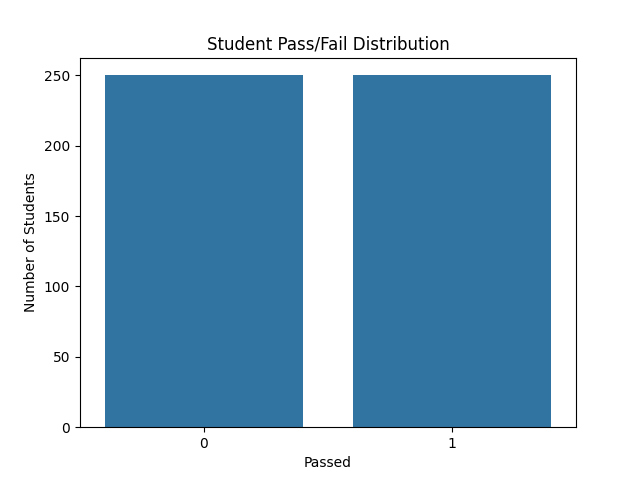
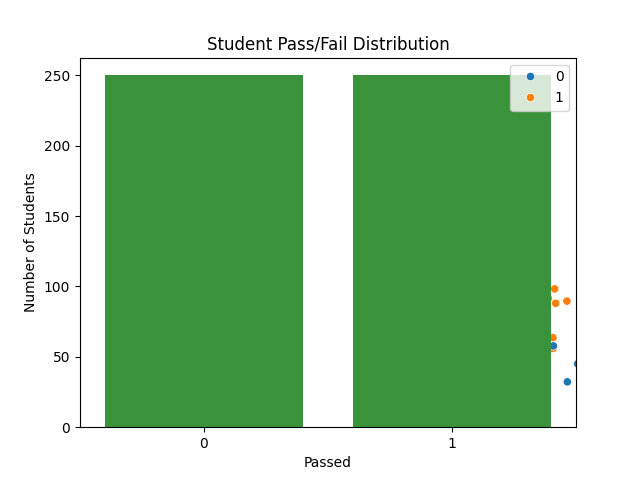
adding a new comit

diff --git a/SPR.py b/SPR.py
@@ -4,13 +4,16 @@ import numpy as np
 import streamlit as st
 import matplotlib.pyplot as plt
 import seaborn as sns
-from sklearn.model_selection import train_test_split, GridSearchCV
-from sklearn.preprocessing import LabelEncoder
+
+from sklearn.model_selection import train_test_split
 from sklearn.tree import DecisionTreeClassifier, plot_tree
 from sklearn.metrics import (
-    accuracy_score, classification_report, confusion_matrix,
+    accuracy_score,
+    classification_report,
+    confusion_matrix,
     ConfusionMatrixDisplay
 )
+
 
 np.random.seed(42)
 
@@ -36,39 +39,69 @@ threshold = np.median(performance_score)
 
 passed = (performance_score >= threshold).astype(int)
 
+
 df = pd.DataFrame({
     "StudyHours": study_hours,
     "Attendance": attendance,
     "PreviousScore": previous_score,
     "SleepHours": sleep_hours,
-    "AssignmentsCompleted": assignments,
+    "Assignments": assignments,
     "Extracurricular": extracurricular,
     "Passed": passed
 })
 
-sns.countplot(
-    x="Passed",
-    data=df
+st.title("Student Performance Prediction")
+
+st.subheader("Dataset")
+
+st.dataframe(df.head(10))
+
+
+st.subheader("Dataset Statistics")
+
+st.write(df.describe())
+
+
+st.subheader("Correlation Heatmap")
+
+fig, ax = plt.subplots(figsize=(10, 6))
+
+sns.heatmap(
+    df.corr(),
+    annot=True,
+    cmap="coolwarm",
+    fmt=".2f",
+    ax=ax
 )
 
-plt.title("Student Pass/Fail Distribution")
-plt.xlabel("Passed")
-plt.ylabel("Number of Students")
-plt.savefig("student_pass_fail.png")
+ax.set_title("Correlation Heatmap")
+
+st.pyplot(fig)
+
+plt.close(fig)
+
+
+st.subheader("Study Hours vs Previous Score")
+
+fig, ax = plt.subplots(figsize=(8, 5))
 
 sns.scatterplot(
+    data=df,
     x="StudyHours",
     y="PreviousScore",
     hue="Passed",
-    data=df
+    ax=ax
 )
 
-plt.title("Study Hours vs Previous Score")
-plt.savefig("study_hours_vs_previous_score.png")
+ax.set_title("Study Hours vs Previous Score")
+
+st.pyplot(fig)
+
+plt.close(fig)
 
 X = df.drop("Passed", axis=1)
-
 y = df["Passed"]
+
 
 X_train, X_test, y_train, y_test = train_test_split(
     X,
@@ -82,12 +115,68 @@ model = DecisionTreeClassifier(
     random_state=42
 )
 
-model.fit(
-    X_train,
-    y_train
+model.fit(X_train, y_train)
+y_pred = model.predict(X_test)
+
+
+accuracy = accuracy_score(y_test, y_pred)
+
+st.subheader("Model Performance")
+
+st.write(f"Accuracy: {accuracy:.2%}")
+
+
+st.subheader("Classification Report")
+
+report = classification_report(
+    y_test,
+    y_pred,
+    target_names=["Failed", "Passed"],
+    output_dict=True
 )
 
-y_pred = model.predict(X_test)
+report_df = pd.DataFrame(report).transpose()
+
+st.dataframe(report_df)
+
+st.subheader("Confusion Matrix")
+
+cm = confusion_matrix(y_test, y_pred)
+
+fig, ax = plt.subplots(figsize=(6, 5))
+
+disp = ConfusionMatrixDisplay(
+    confusion_matrix=cm,
+    display_labels=["Failed", "Passed"]
+)
+
+disp.plot(ax=ax)
+
+ax.set_title("Confusion Matrix")
+
+st.pyplot(fig)
+
+plt.close(fig)
+
+st.subheader("Decision Tree")
+
+fig, ax = plt.subplots(figsize=(20, 10))
+
+plot_tree(
+    model,
+    feature_names=X.columns,
+    class_names=["Failed", "Passed"],
+    filled=True,
+    rounded=True,
+    ax=ax
+)
+
+st.pyplot(fig)
+
+plt.close(fig)
+
+
+st.subheader("Decision Tree Depth Analysis")
 
 depths = range(1, 16)
 
@@ -96,17 +185,148 @@ test_scores = []
 
 for depth in depths:
 
-    model = DecisionTreeClassifier(
+    depth_model = DecisionTreeClassifier(
         max_depth=depth,
         random_state=42
     )
 
-    model.fit(X_train, y_train)
+    depth_model.fit(X_train, y_train)
 
     train_scores.append(
-        model.score(X_train, y_train)
+        depth_model.score(X_train, y_train)
     )
 
     test_scores.append(
-        model.score(X_test, y_test)
+        depth_model.score(X_test, y_test)
     )
+
+fig, ax = plt.subplots(figsize=(10, 6))
+
+ax.plot(
+    depths,
+    train_scores,
+    marker="o",
+    label="Training Accuracy"
+)
+
+ax.plot(
+    depths,
+    test_scores,
+    marker="o",
+    label="Testing Accuracy"
+)
+
+ax.set_xlabel("Tree Depth")
+ax.set_ylabel("Accuracy")
+
+ax.set_title("Decision Tree Depth vs Accuracy")
+
+ax.legend()
+
+ax.grid(True)
+
+st.pyplot(fig)
+
+plt.close(fig)
+
+
+best_index = np.argmax(test_scores)
+
+best_depth = list(depths)[best_index]
+
+best_accuracy = test_scores[best_index]
+
+st.write(
+    f"Best Tree Depth: **{best_depth}**"
+)
+
+st.write(
+    f"Best Test Accuracy: **{best_accuracy:.2%}**"
+)
+
+
+model = DecisionTreeClassifier(
+    max_depth=best_depth,
+    random_state=42
+)
+
+model.fit(X_train, y_train)
+
+
+st.subheader("Predict Student Performance")
+
+study_hours_input = st.number_input(
+    "Study Hours",
+    min_value=0.0,
+    max_value=24.0,
+    value=5.0
+)
+
+attendance_input = st.number_input(
+    "Attendance (%)",
+    min_value=0.0,
+    max_value=100.0,
+    value=75.0
+)
+
+previous_score_input = st.number_input(
+    "Previous Score",
+    min_value=0.0,
+    max_value=100.0,
+    value=60.0
+)
+
+sleep_hours_input = st.number_input(
+    "Sleep Hours",
+    min_value=0.0,
+    max_value=24.0,
+    value=7.0
+)
+
+assignments_input = st.number_input(
+    "Assignments Completed",
+    min_value=0,
+    max_value=10,
+    value=5
+)
+
+extracurricular_input = st.number_input(
+    "Extracurricular Activities",
+    min_value=0,
+    max_value=1,
+    value=0
+)
+
+
+if st.button("Predict Performance"):
+
+    input_data = pd.DataFrame({
+        "StudyHours": [study_hours_input],
+        "Attendance": [attendance_input],
+        "PreviousScore": [previous_score_input],
+        "SleepHours": [sleep_hours_input],
+        "Assignments": [assignments_input],
+        "Extracurricular": [extracurricular_input]
+    })
+
+    prediction = model.predict(input_data)
+
+    probability = model.predict_proba(input_data)
+
+    if prediction[0] == 1:
+
+        st.success("The predicted performance is: PASSED")
+
+        st.write(
+            f"Probability of Passing: "
+            f"{probability[0][1]:.2%}"
+        )
+
+    else:
+
+        st.error("The predicted performance is: FAILED")
+
+        st.write(
+            f"Probability of Passing: "
+            f"{probability[0][0]:.2%}"
+        )
